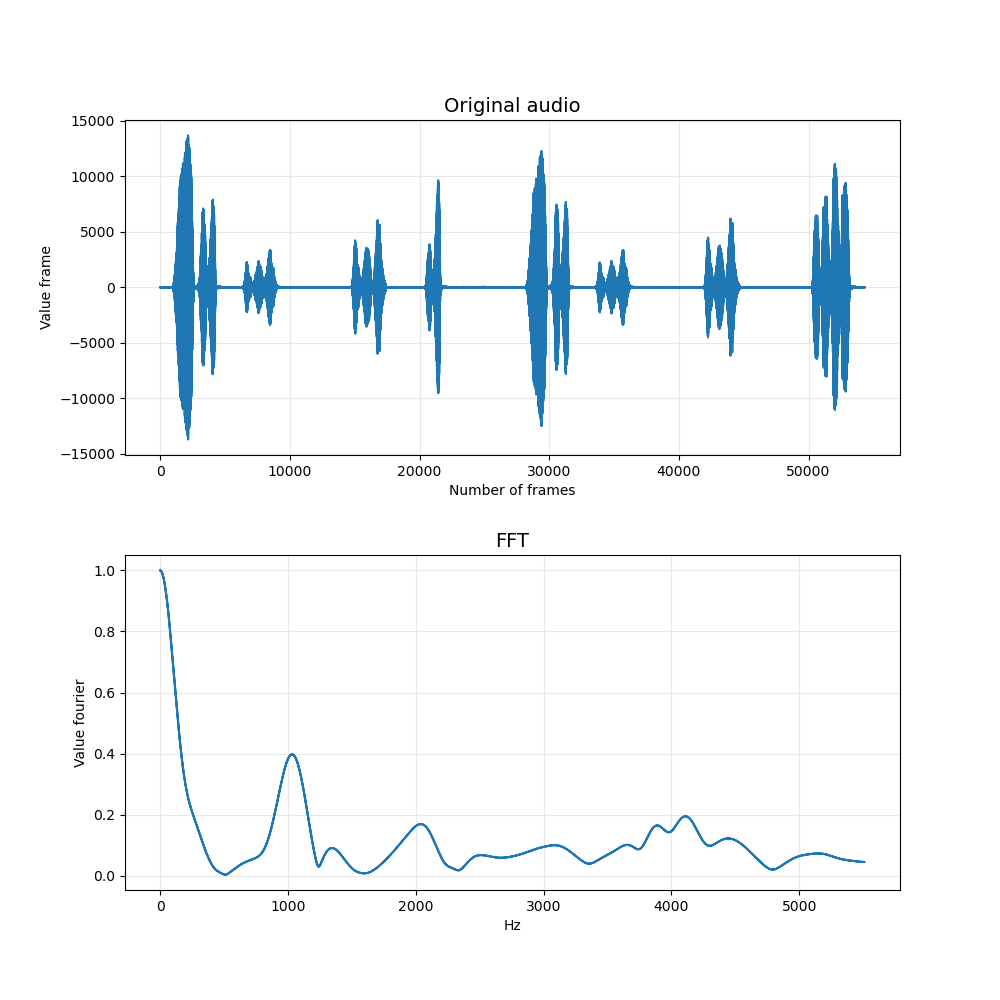
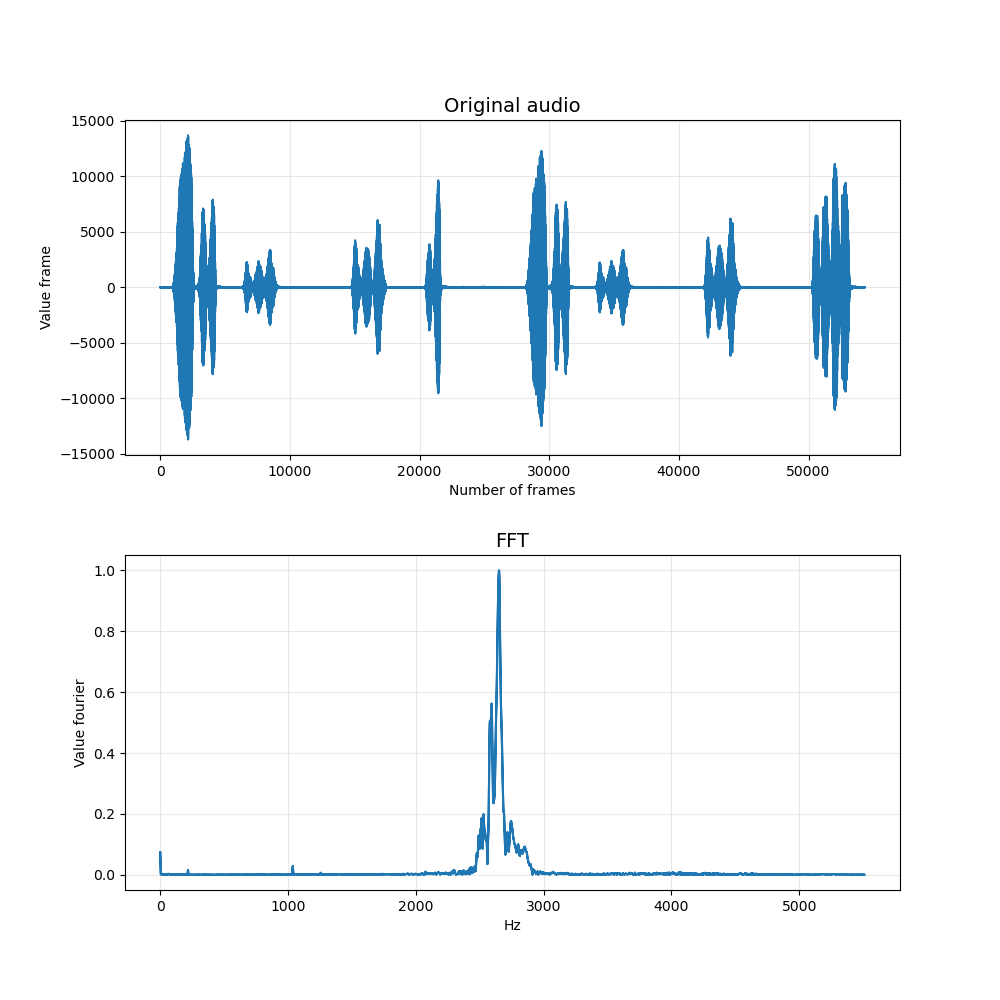
ver1.5
redesign file wav_to_date 50%

diff --git a/wav_to_data.py b/wav_to_data.py
@@ -4,12 +4,14 @@ import numpy as np
 
 
 class Date:
+
     _samples = None
     _thinned_samples = None
     _framerate = 0
     _thin_factor = 1
     _sigma_window = 15
     _fft_array = None
+    _date_array = None
 
     _types = {
         1: np.int8,
@@ -28,27 +30,33 @@ class Date:
         np.asarray(thinned_samples)  # превращает в массив нампая
         return thinned_samples
 
-    def __init__(self, namefile):
+    # Необязательные аргументы thin_factor и sigma нужны для простоты подгона значений
+    def __init__(self, namefile, thin_factor=_thin_factor, sigma=_sigma_window):
         w = wave.open(namefile, 'r')
 
+        # получение параметров из wav
         sampwidth = w.getsampwidth()
         self._framerate = w.getframerate()
         nframes = w.getnframes()
 
+        # считываем фреймы в массив и переводим в интовое значение
         frames = w.readframes(nframes)
         self._samples = np.frombuffer(frames, dtype=self._types[sampwidth])
 
         # прорежает семплы
-        self._thinned_samples = self._thinSamples(self._samples, self._thin_factor)
+        self._thinned_samples = self._thinSamples(self._samples, thin_factor)
 
         # умножение на окно
-        window = signal.gaussian(len(self._samples), std=self._sigma_window)
+        window = signal.gaussian(len(self._samples), std=sigma)
 
-        # преобразование фурье
+        # преобразование фурье (Тут функция Вадима)
         self._fft_array = np.absolute(np.fft.fft(self._samples * window))
 
         # нормировка
         self._fft_array = self._fft_array / self._fft_array.max()
+
+        # Здесь должна быть функция для уменьшения кол-ва точек вектора или PCA
+        # Результат должен записываться в _date_array
 
         w.close
 
@@ -63,3 +71,6 @@ class Date:
 
     def getFftArray(self):
         return self._fft_array
+
+    def getDateArray(self):
+        return self._date_array
